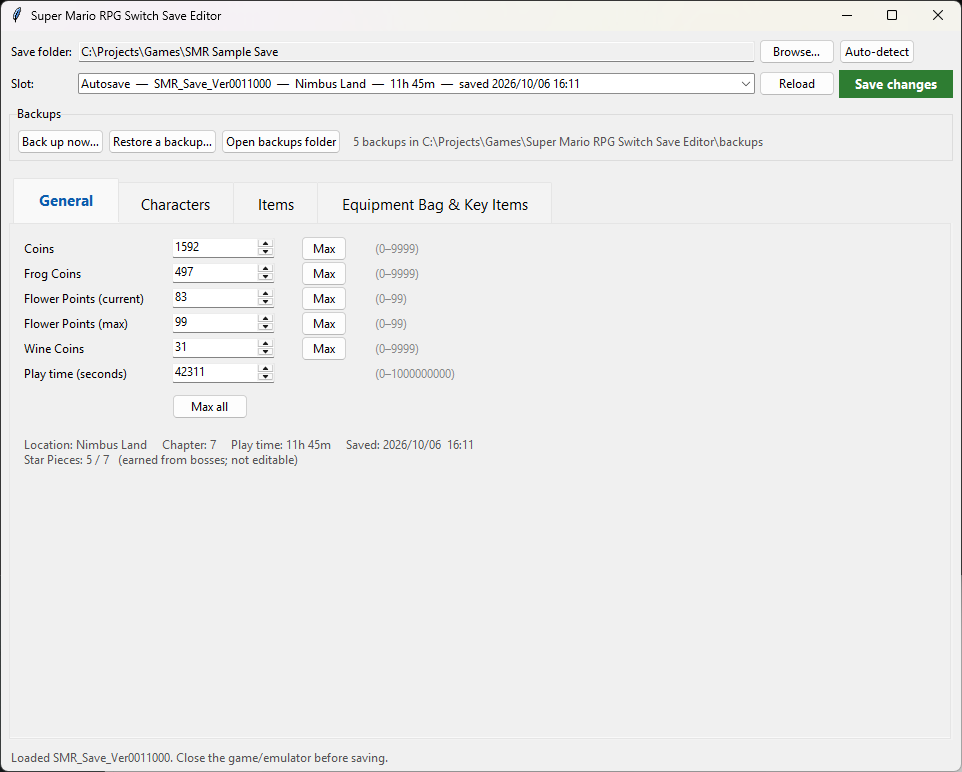
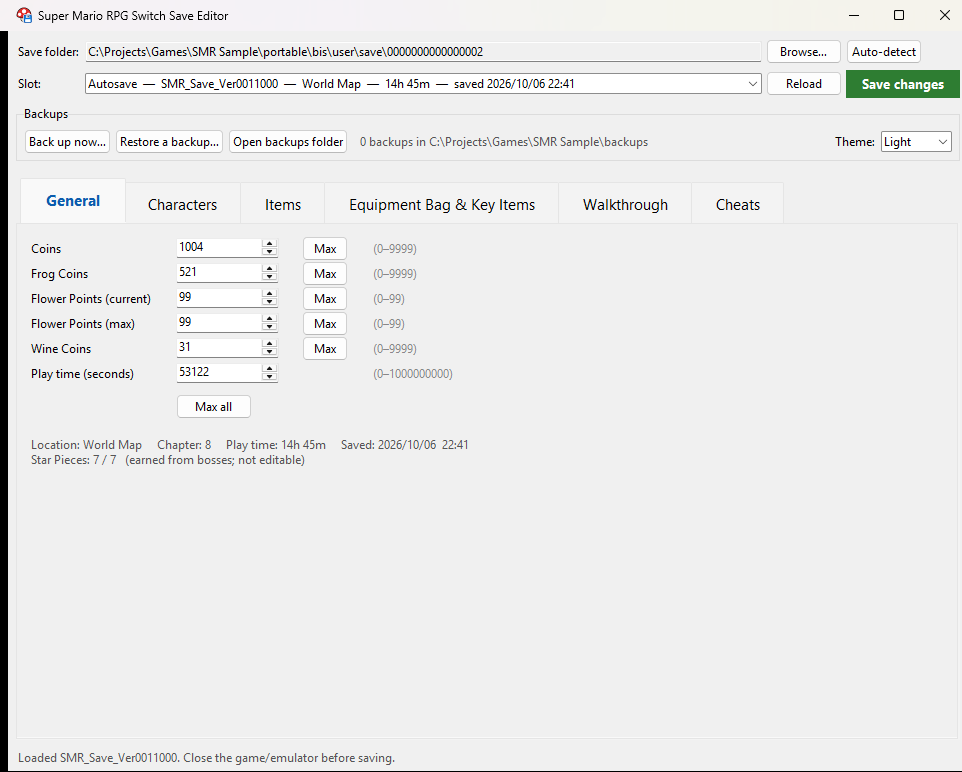
Update README, cheat guide and screenshots for v1.1.0
- README: built-in cheat library (63 cheats, master code added
  automatically), Bag space bar, system theme on macOS/GNOME/KDE, cheat
  credits, FAQ update
- Cheat guide: start from the included cheats, adding more is optional
- Retook every screenshot from the current version

diff --git a/README.md b/README.md
@@ -27,11 +27,11 @@ Works with saves from a real Switch and from every major Switch emulator.
 | 💰 **Money & FP** | Coins, Frog Coins, Flower Points, Wine Coins and play time, each with a **Max** button (plus **Max all**) |
 | 🧑🤝🧑 **Characters** | Level, EXP, HP and all five stats for Mario, Mallow, Geno, Bowser and Peach. **Max out** one character or all of them in one click |
 | 🔨 **Equipment** | Change each character's weapon, armor and accessory. Only gear they can wear is listed, with its stat bonuses |
-| 🎒 **Items & Storage Box** | Every consumable by name. Set how many you carry (up to 30) and how many are in the Storage Box at Mario's Pad. Multi-select or **Select all** to change many items at once |
+| 🎒 **Items & Storage Box** | Every consumable by name. Set how many you carry (up to 30) and how many are in the Storage Box at Mario's Pad. Multi-select or **Select all** to change many items at once, and a **Bag space** bar shows how much room is left |
 | 🗝 **Equipment bag & key items** | Every piece of gear and every key item with how many you own, who can equip it and who's wearing it. Equip and unequip, multi-select, **Select all** and **Max owned**, with sensible limits |
-| 🎮 **Cheats** | Add or import cheat codes, switch them on and off, and install them into Ryujinx or a yuzu-family emulator in one click, or export them for a Switch running Atmosphère |
+| 🎮 **Cheats** *(experimental)* | Comes with **63 cheats for v1.0.0**: infinite HP and FP, damage, EXP and coin multipliers, 100% drops, perfect jumps, free shopping and more. Switch them on and install them into Ryujinx or a yuzu-family emulator in one click, or export them for a Switch running Atmosphère. Add or import your own too |
 | 🗺 **Walkthrough** | Shows the chapter you're on, Star Pieces and hidden treasures found (read from your save), with one-click links to the Game8 chapter guides and IGN's hidden treasure locations |
-| 🌗 **Light & dark mode** | Light, Dark, or follow your Windows setting, including a dark title bar |
+| 🌗 **Light & dark mode** | Light, Dark, or follow your system's setting (Windows, macOS, GNOME, KDE), including a dark title bar on Windows |
 | ↕ **Sortable lists** | Click any column heading to sort; click again to reverse |
 | 🔍 **Review before saving** | A window lists every change, like *"Mario Weapon: Hammer → Super Hammer"*, before anything is written |
 | 🛟 **Backups** | Warns you before saving if your save isn't backed up, plus unlimited manual backups with notes and one-click restore |
@@ -54,7 +54,7 @@ Works with saves from a real Switch and from every major Switch emulator.
 
 <img src="docs/screenshot-walkthrough.png" alt="Walkthrough tab" width="760">
 
-**Cheats** (the two cheats shown are format examples, not real codes)
+**Cheats**
 
 <img src="docs/screenshot-cheats.png" alt="Cheats tab" width="760">
 
@@ -252,17 +252,20 @@ The guides are written by [Game8](https://game8.co/games/Super-Mario-RPG/archive
 > [!WARNING]
 > **Cheats are experimental.** A code only works for the exact game version it was made for, and may behave differently between emulators. A mismatched code can crash the game or corrupt your save, so **back up first**. Read the full **[cheat guide](docs/CHEATS.md)** before you start.
 
-Cheats change the game **while it's running** (things like infinite HP or EXP multipliers), so they aren't part of your save file. The **Cheats** tab (the last tab) manages them for you.
+Cheats change the game **while it's running** (things like infinite HP or EXP multipliers), so they aren't part of your save file. The **Cheats** tab (the last tab) manages them for you, and it **comes with 63 cheats for v1.0.0** of the game, each with a short description.
 
-1. **Get cheat codes** from the community, e.g. [CheatSlips](https://www.cheatslips.com/game/super-mario-rpg) or GBAtemp. The **Find cheats online** button opens CheatSlips. Codes use the Atmosphère format:
-   ```
-   [Cheat name]
-   04000000 01234567 0000270F
-   ```
-   *(This shows the format only. It isn't a real code for this game.)*
-2. **Import** a cheat file, or **Add cheat…** and paste a code. Invalid codes are rejected with a clear message.
-3. **Turn on** the cheats you want: double-click a row, or select rows and click **Turn on/off**.
-4. Click **Install to emulator**, then restart the game.
+1. **Back up your save** with **Back up now…**.
+2. **Turn on** the cheats you want: double-click a row, or select rows and click **Turn on/off**. Where a cheat has variants (like *Player Damage x2* and *x3*), turn on only one of them. The descriptions say so.
+3. Click **Install to emulator**, then restart the game. The **master code** the set relies on is installed automatically.
+
+**Want more?** Click **Add cheat…** and paste a code, or **Import cheat file…** for a whole file (**Find cheats online** opens CheatSlips). Invalid codes are rejected with a clear message. Codes use the Atmosphère format:
+
+```
+[Cheat name]
+04000000 01234567 0000270F
+```
+
+*(This shows the format only. It isn't a real code for this game.)*
 
 | Where | What the editor does |
 |---|---|
@@ -273,7 +276,7 @@ Cheats change the game **while it's running** (things like infinite HP or EXP mu
 > [!IMPORTANT]
 > Cheat codes only work for the **exact game version** they were written for. The editor reads your game's **build ID** from Ryujinx's log (v1.0.0 is `E968832CADE2AD7C`). You can also type it in: Ryujinx shows it at the top of **Manage Cheats**.
 
-Your cheats are filed in the **[`cheats`](cheats/README.md)** folder by game version, with a description and a **Tested on** result (Ryujinx / yuzu family / Switch) for each one, ready to share.
+Cheats are filed in the **[`cheats`](cheats/README.md)** folder by game version, with a description and a **Tested on** result (Ryujinx / yuzu family / Switch) for each one, ready to share. The included cheats haven't been tested yet, so they're all marked *untested*. If you try one, please report back.
 
 The editor only manages its own cheat file, so it never touches cheats you installed another way. Your cheat list is kept by the app, so removing cheats from the emulator doesn't lose them.
 
@@ -568,7 +571,7 @@ The stats for the post-game weapons (Sage Stick, Stella 023, Wonder Chomp) come 
 
 <br>
 
-No. A cheat code needs memory addresses found by reverse-engineering the exact game version, so the editor can only install codes that someone has already made and shared. There's also no "no random encounters" cheat needed: the remake has no random encounters, because enemies are visible on the map.
+No. A cheat code needs memory addresses found by reverse-engineering the exact game version, so the editor can only install codes that someone has already made and shared. It comes with 63 of those for v1.0.0, and you can add more. There's also no "no random encounters" cheat needed: the remake has no random encounters, because enemies are visible on the map.
 
 </details>
 
@@ -586,6 +589,7 @@ Click **Restore a backup…** and choose the newest backup from before your last
 ## 🙏 Credits
 
 - Item IDs and names: [Echocolat/SMR-save-edit-scripts](https://github.com/Echocolat/SMR-save-edit-scripts)
+- Cheat codes: **khuong** (the master code and cheats 00–31) and **怪盗B** on [CheatSlips](https://www.cheatslips.com/game/super-mario-rpg) (cheats 32–33)
 - Walkthrough links: [Game8](https://game8.co/games/Super-Mario-RPG/archives/417834) and [IGN](https://www.ign.com/wikis/super-mario-rpg-switch-remake/Hidden_Treasure_Chest_Locations)
 - Equipment stats: [Nintendo Life](https://www.nintendolife.com/guides/super-mario-rpg-all-weapons-list), [Gamer Guides](https://gamerguides.com/super-mario-rpg-2023/guide/getting-started/basics/all-armor-in-super-mario-rpg), [Samurai Gamers](https://samurai-gamers.com/super-mario-rpg-remake/weapons-list-19/) and the [Super Mario Wiki](https://www.mariowiki.com/)
 

diff --git a/docs/CHEATS.md b/docs/CHEATS.md
@@ -58,12 +58,14 @@ Most codes work everywhere, but emulators don't behave identically, so **test a 
 
 ## Using cheats with the editor
 
+The editor **comes with 63 cheats for v1.0.0** (see the [list](../cheats/0100BC0018138000%20-%20Super%20Mario%20RPG/v1.0.0%20-%20E968832CADE2AD7C/README.md)), so for that version you can skip straight to step 2.
+
 1. **Back up your save:** click **Back up now…** at the top of the window.
-2. **Get a code** made for your build ID, for example from [CheatSlips](https://www.cheatslips.com/game/super-mario-rpg), or make your own (see below).
-3. On the **Cheats** tab, click **Import cheat file…**, or **Add cheat…** and paste the code.
-4. **Turn on** the cheats you want: double-click a row, or select rows and click **Turn on/off**.
-5. Click **Install to emulator** (or **Export for Switch (SD card)…**).
-6. **Restart the game.** Cheats are loaded when the game starts.
+2. **Turn on** the cheats you want: double-click a row, or select rows and click **Turn on/off**. Where a cheat has variants (like *Player Damage x2* and *x3*), turn on only one; the descriptions say so.
+3. Click **Install to emulator** (or **Export for Switch (SD card)…**). The **master code** the set relies on is added automatically.
+4. **Restart the game.** Cheats are loaded when the game starts.
+
+**Adding more:** on the **Cheats** tab, click **Import cheat file…**, or **Add cheat…** and paste a code made for your build ID (for example from [CheatSlips](https://www.cheatslips.com/game/super-mario-rpg)), or make your own (see below).
 
 To stop a cheat, turn it off and click **Install to emulator** again, or click **Remove from emulator**. Your list stays in the app either way.
 
